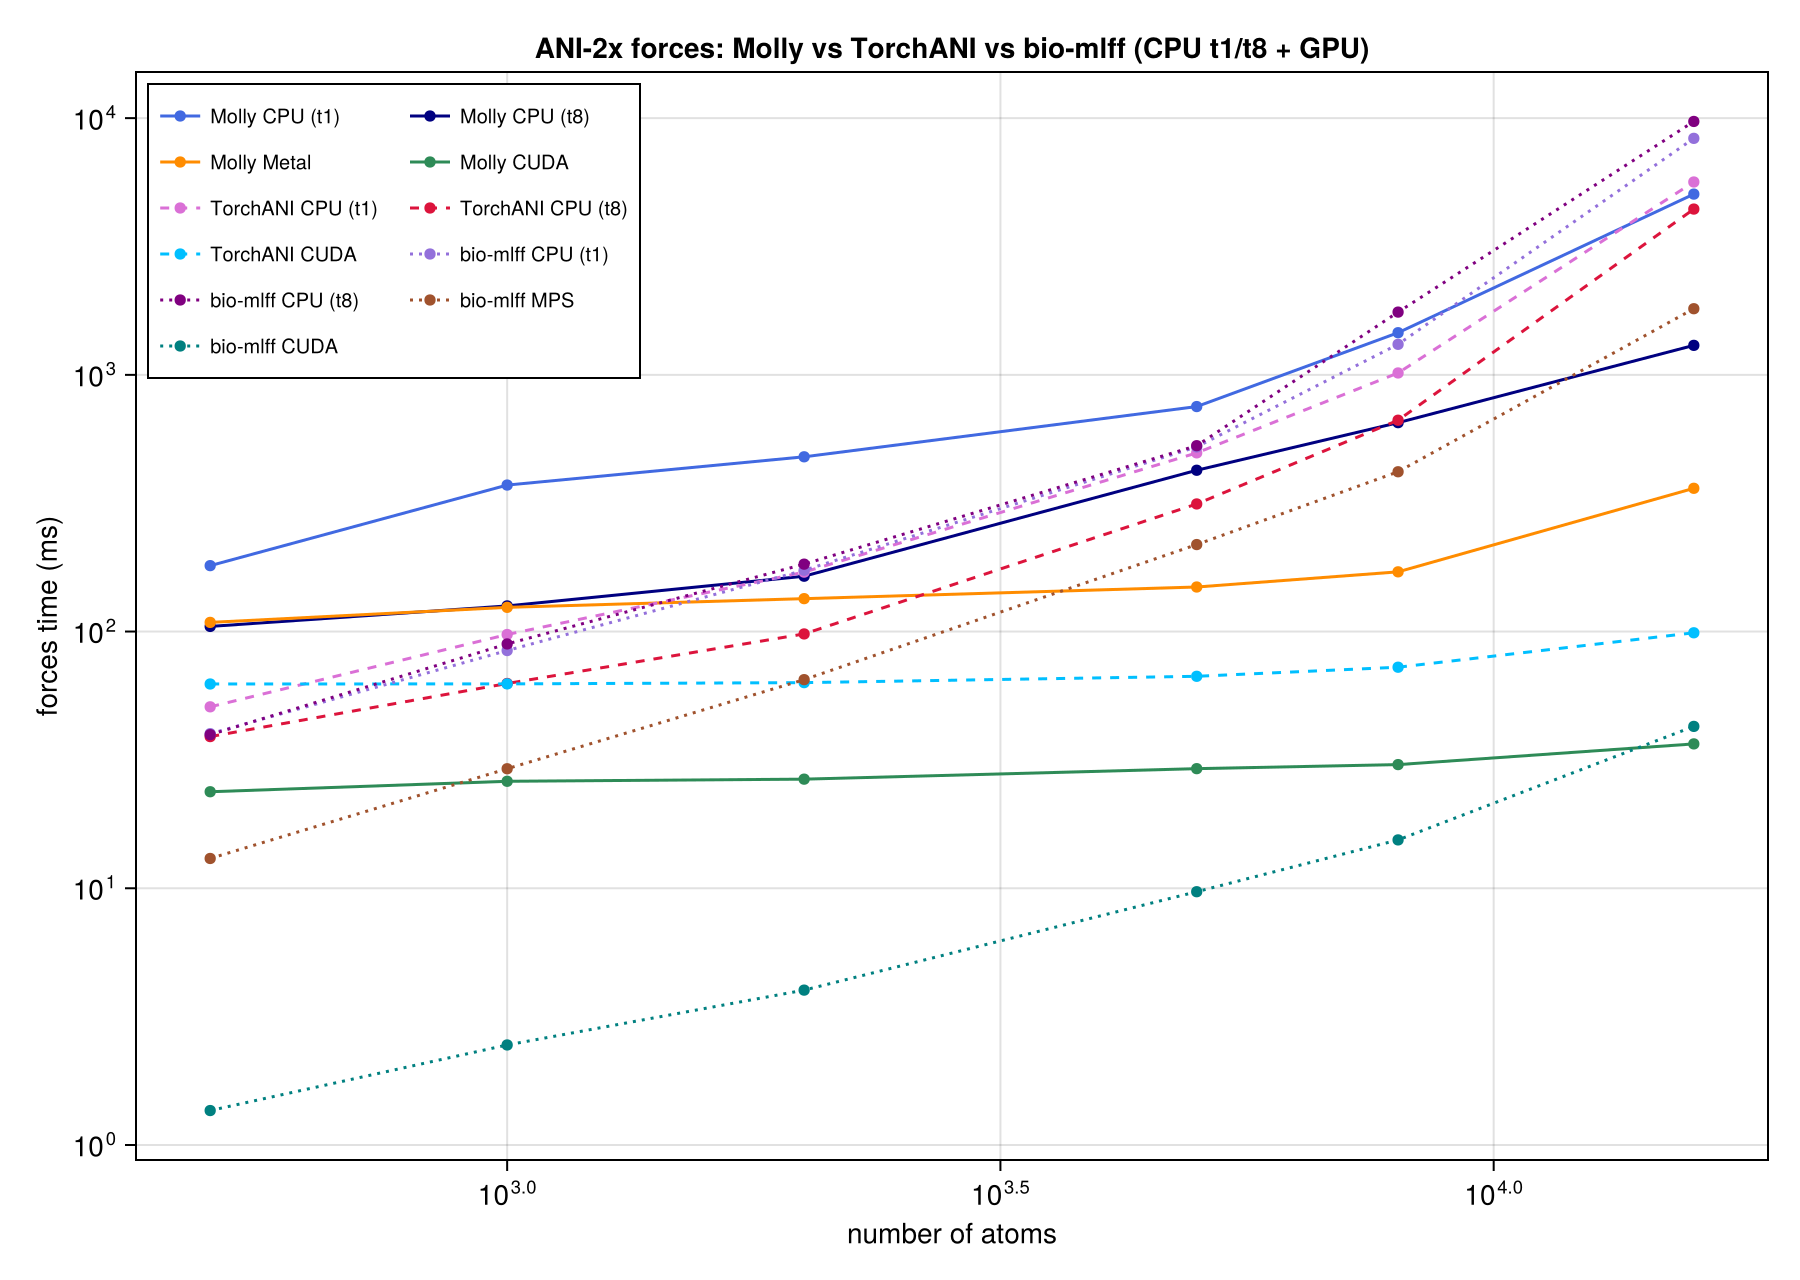
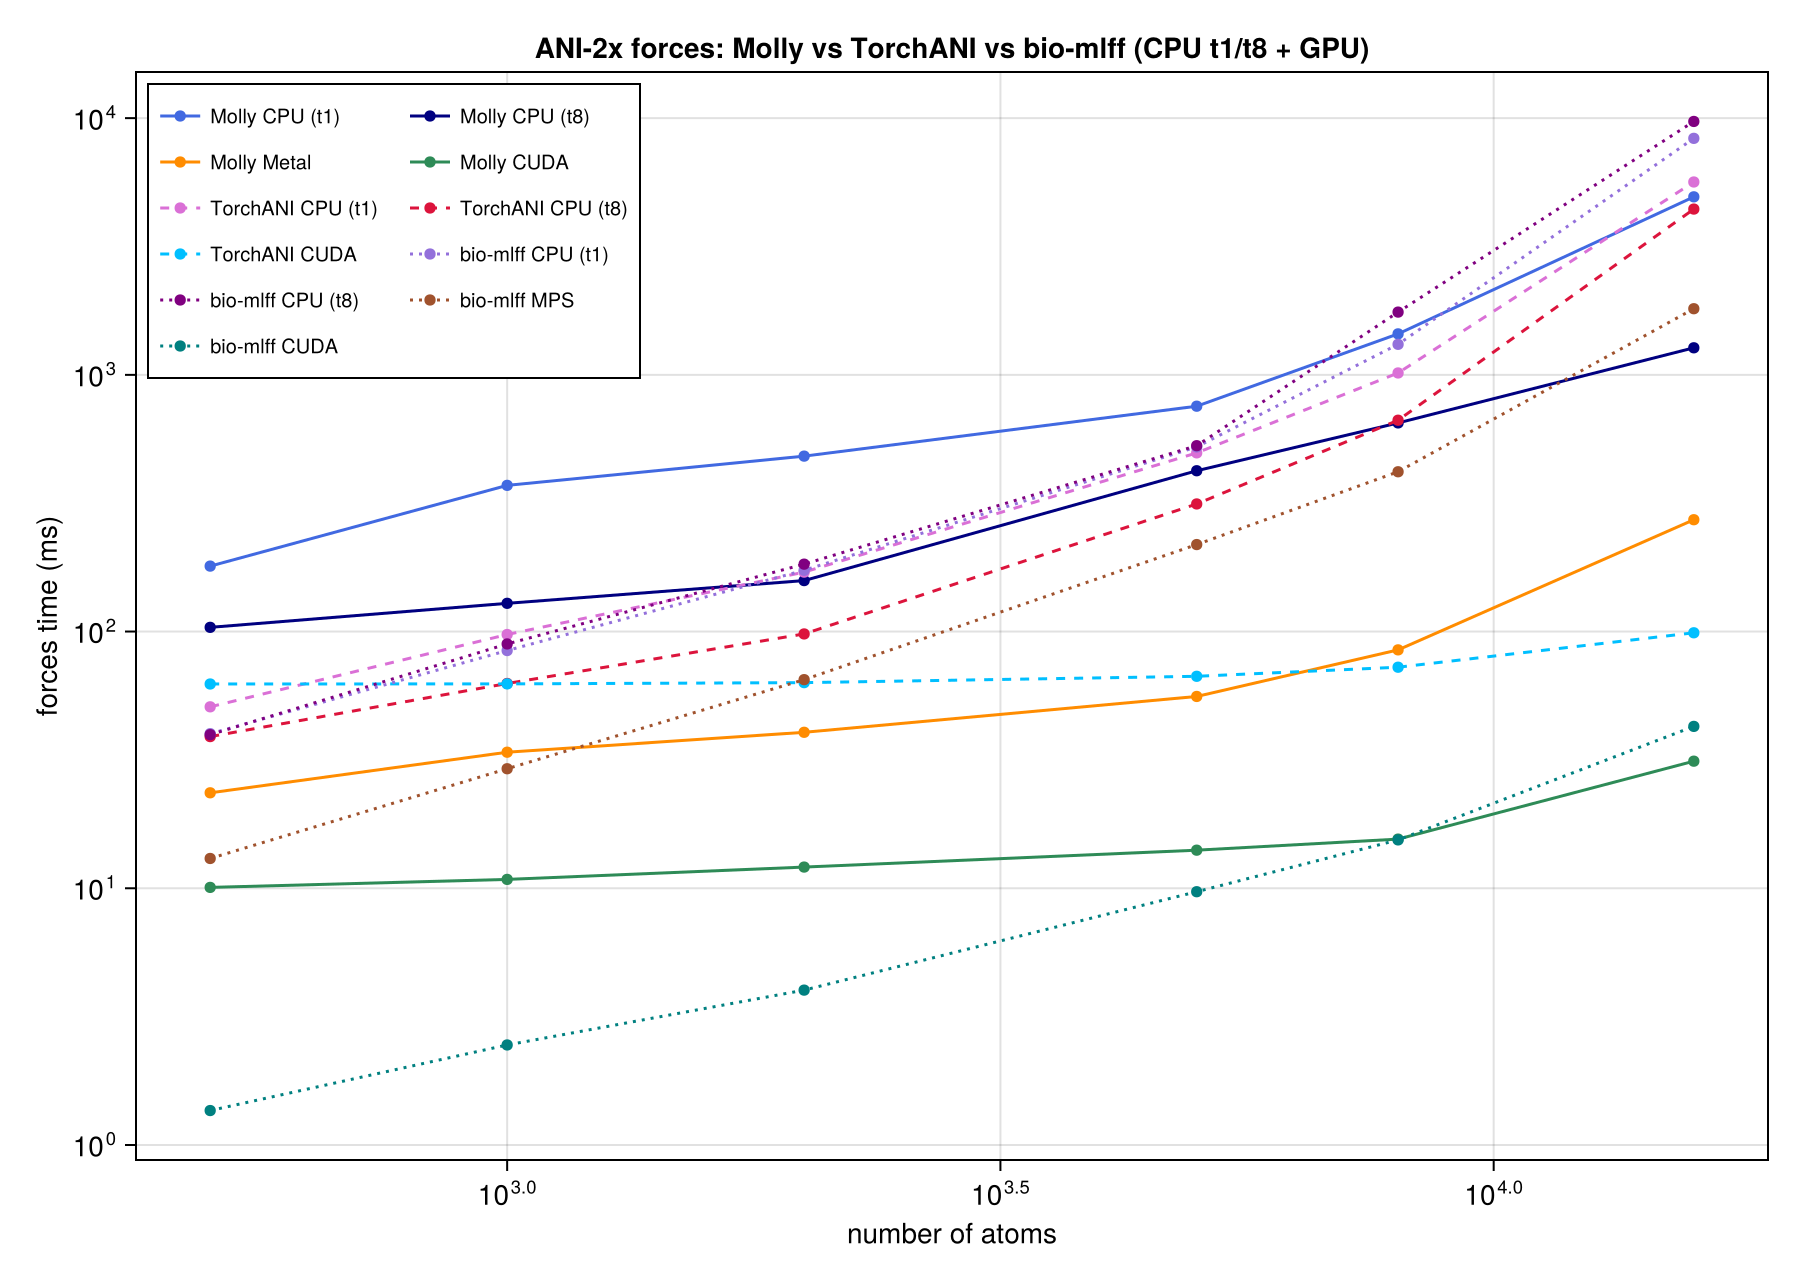
ANI: refresh forces benchmarks + plots after the write-reduced backward angular kernel (PR #260)
Re-ran forces (CUDA on RTX 5080, Metal/CPU on M3); energy unchanged. Updated ani_benchmarks.md
forces tables (CUDA section, cross-implementation, Metal) and regenerated the figures.

RTX 5080 forces at 15,954 atoms: 37->31 ms (and 26->11 at 1k, 30->16 at 8k). Molly CUDA now matches
bio-mlff on forces at ~8k atoms and wins above; the crossover moved from ~13k to ~8k. On M3, the
backward write-reduction cut Metal forces ~3.6x at 1k (124->34 ms), so Metal now beats the threaded
CPU on forces at every size (4.4-7.7x) and TorchANI CPU by 14x at the full protein.

diff --git a/benchmark/ani_benchmarks.md b/benchmark/ani_benchmarks.md
@@ -84,18 +84,17 @@ a single member: one AEV forward/backward, NN VJP ×8).
 
 | N atoms | CPU analytic (t8) | Metal | Metal speedup |
 |---------|-------------------|-------|---------------|
-| 500     | 104.7 ms | 108.6 ms | 1.0×       |
-| 1000    | 125.9 ms | 124.3 ms | 1.0×       |
-| 2000    | 164.3 ms | 134.4 ms | 1.2×       |
-| 5000    | 425.0 ms | 149.1 ms | **2.9×**   |
-| 8000    | 651.3 ms | 170.9 ms | **3.8×**   |
-| **15,954 (full 6mrr)** | 1303 ms | **361 ms** | **3.6×** |
+| 500     | 103.9 ms | 23.5 ms  | **4.4×**   |
+| 1000    | 128.8 ms | 33.9 ms  | **3.8×**   |
+| 2000    | 158.0 ms | 40.5 ms  | **3.9×**   |
+| 5000    | 423.2 ms | 55.9 ms  | **7.6×**   |
+| 8000    | 649.8 ms | 84.9 ms  | **7.7×**   |
+| **15,954 (full 6mrr)** | 1275 ms | **273 ms** | **4.7×** |
 
-CPU-analytic and Metal are comparable up to ~2000 atoms (both dominated by fixed overhead); above
-the **~2000-atom crossover** Metal's near-flat cost wins, reaching **3.6×** the CPU at the full
-6mrr protein. Metal forces for the whole 15,954-atom system take ~361 ms (~3× the on-device
-energy, 119 ms — the forward-AEV + backward-AEV + NN-VJP overhead). Both Molly paths beat
-TorchANI CPU forces at scale (see the head-to-head): at 16k, CPU-analytic is 3.4× and Metal 12×.
+With the write-reduced backward angular kernel, Metal now beats the threaded CPU on forces at
+**every** size (4.4× at 500 atoms, up to 7.7× at 8000, 4.7× at the full protein). Metal forces for
+the whole 15,954-atom system take ~273 ms. Both Molly paths beat TorchANI CPU forces at scale (see
+the head-to-head): at 16k, CPU-analytic is 3× and Metal 14×.
 
 ![Forces vs N — all implementations: Molly/TorchANI/bio-mlff, CPU t1/t8 + Metal/MPS/CUDA](images/forces_vs_N.png)
 
@@ -185,19 +184,20 @@ Forces (single member, ms):
 
 | N atoms | CPU (t8) | **Molly CUDA** | TorchANI CUDA | bio-mlff CUDA |
 |---------|----------|------------|---------------|---------------|
-| 500     | 286.3  | **23.8** | 62.5 | 1.4 |
-| 1000    | 336.5  | **26.1** | 62.5 | 2.5 |
-| 2000    | 411.8  | **26.6** | 63.3 | 4.0 |
-| 5000    | 1271.4 | **29.2** | 67.0 | 9.7 |
-| 8000    | 1932.8 | **30.3** | 72.6 | 15.4 |
-| **15,954** | 3997.0 | **36.5** | 98.9 | 42.7 |
+| 500     | 285.2  | **10.1** | 62.5 | 1.4 |
+| 1000    | 337.7  | **10.8** | 62.5 | 2.5 |
+| 2000    | 410.8  | **12.1** | 63.3 | 4.0 |
+| 5000    | 1304.7 | **14.1** | 67.0 | 9.7 |
+| 8000    | 1951.0 | **15.5** | 72.6 | 15.4 |
+| **15,954** | 3905.3 | **31.3** | 98.9 | 42.7 |
 
-At the full 6mrr protein (15,954 atoms) Molly-CUDA is **124× the host CPU on energy and 109× on
+At the full 6mrr protein (15,954 atoms) Molly-CUDA is **123× the host CPU on energy and 125× on
 forces**. Against the two reference GPU implementations on the *same* RTX 5080: Molly is **faster than
-TorchANI CUDA at every size** (12 vs 58 ms energy, 36 vs 99 ms forces at 16k), and **faster than
-bio-mlff's XLA-fused CUDA at scale** (energy 12 vs 24 ms, forces 36 vs 43 ms at 16k). bio-mlff's
-whole-graph XLA still wins at small N (its fixed overhead is tiny), with the crossover around
-5,000–8,000 atoms; Molly's flatter scaling takes over above that.
+TorchANI CUDA at every size** (12 vs 58 ms energy, 31 vs 99 ms forces at 16k), and **faster than
+bio-mlff's XLA-fused CUDA at scale** (energy 12 vs 24 ms, forces 31 vs 43 ms at 16k). On forces,
+Molly matches bio-mlff at ~8,000 atoms (15.5 vs 15.4 ms) and wins above; bio-mlff's whole-graph XLA
+still wins below that (its fixed overhead is tiny). Both the forward AEV and the backward angular
+kernel use the write-reduced (workgroup-per-atom) scheme.
 
 The [energy](#energy-cpu) and [forces](#forces--the-single-analytic-path-cpu--metal) vs-N figures
 above overlay all five series (Molly CPU/Metal/CUDA + TorchANI CPU/CUDA) on one chart each. NB Molly
@@ -236,19 +236,20 @@ Forces (ms):
 
 | N atoms | Molly t1 | Molly t8 | Molly Metal | **Molly CUDA** | TorchANI t1 | TorchANI t8 | TorchANI CUDA | bio-mlff t1 | bio-mlff t8 | bio-mlff MPS | bio-mlff CUDA |
 |---------|----------|----------|-------------|------------|-------------|-------------|---------------|-------------|-------------|--------------|---------------|
-| 1000    | 372.2 | 125.9 | 124.3 | **26.1** | 97.4   | 62.8  | 62.5 | 84.4  | 89.5  | 29.2   | 2.4  |
-| 8000    | 1460  | 651.3 | 170.9 | **30.3** | 1017   | 665.8 | 72.6 | 1315  | 1756  | 419.3  | 15.4 |
-| 15,954  | 5060  | 1303  | 361.5 | **36.5** | 5641   | 4424  | 98.9 | 8343  | 9709  | 1810   | 42.7 |
+| 1000    | 371.1 | 128.8 | 33.9  | **10.8** | 97.4   | 62.8  | 62.5 | 84.4  | 89.5  | 29.2   | 2.4  |
+| 8000    | 1444  | 649.8 | 84.9  | **15.5** | 1017   | 665.8 | 72.6 | 1315  | 1756  | 419.3  | 15.4 |
+| 15,954  | 4937  | 1275  | 272.7 | **31.3** | 5641   | 4424  | 98.9 | 8343  | 9709  | 1810   | 42.7 |
 
 **Threading** (the interesting part): Molly scales well with threads (energy ~3.5× t1→t8, forces
 ~3.8× at 16k); TorchANI scales modestly (~1.3× energy, ~1.3× forces); bio-mlff (JAX/XLA on CPU) is
 essentially thread-insensitive (t1 ≈ t8 — XLA's CPU threadpool did not respond to
 `intra_op_parallelism_threads`). **At t8, Molly is the fastest CPU implementation at scale** on both
-energy (396 vs 2753 vs 4011 ms at 16k) and forces (1303 vs 4424 vs 9709). **On GPU, Molly CUDA is now
-the fastest at the full protein** — energy 12 ms (vs TorchANI 58, bio-mlff 24) and forces 36 ms (vs
-99, 43) at 15,954 atoms — after the write-reduced AEV, on-device CSR build, and type-stable assembly.
-bio-mlff's XLA still wins below ~5–8k atoms (tiny fixed overhead), and Molly Metal gives the strongest
-Apple-GPU path (16 ms energy at 1k). See the energy/forces vs-N figures above for all eleven series.
+energy (396 vs 2753 vs 4011 ms at 16k) and forces (1275 vs 4424 vs 9709). **On GPU, Molly CUDA is now
+the fastest at the full protein** — energy 12 ms (vs TorchANI 58, bio-mlff 24) and forces 31 ms (vs
+99, 43) at 15,954 atoms — after the write-reduced AEV **and backward angular kernel**, on-device CSR
+build, and type-stable assembly. bio-mlff's XLA still wins on forces below ~8k atoms (tiny fixed
+overhead), and Molly Metal gives the strongest Apple-GPU path (16 ms energy / 34 ms forces at 1k).
+See the energy/forces vs-N figures above for all eleven series.
 
 ---
 
@@ -312,15 +313,15 @@ Forces (single member):
 
 | N atoms | Molly CPU (analytic) | Molly Metal | TorchANI CPU | Molly Metal vs TorchANI CPU |
 |---------|----------------------|-------------|--------------|-----------------------------|
-| 1000    | 125.9 ms | 124.3 ms    | 51.9 ms      | 0.42×         |
-| 2000    | 164.3 ms | 134.4 ms    | 90.6 ms      | 0.67×         |
-| 15,954  | 1303 ms  | 361 ms      | 3823 ms      | **10.6×**     |
+| 1000    | 128.8 ms | 33.9 ms     | 51.9 ms      | **1.5×**      |
+| 2000    | 158.0 ms | 40.5 ms     | 90.6 ms      | **2.2×**      |
+| 15,954  | 1275 ms  | 273 ms      | 3823 ms      | **14×**       |
 
 **Takeaway:** TorchANI's heavily-optimised CPU kernels win at small N (its C++/vectorised AEV
 beats Molly there), but Molly scales far better: on the **full 6mrr protein** Molly's on-device
-energy is **24×** faster than TorchANI CPU and forces are **10.6×** faster. Molly CPU energy is
+energy is **24×** faster than TorchANI CPU and forces are **14×** faster. Molly CPU energy is
 already competitive at 1k (32 vs 27 ms) and ~7× faster at 16k (396 vs 2893 ms); Molly's CPU
-analytic forces are also ~3× faster than TorchANI CPU at the full protein (1303 vs 3823 ms). On the
+analytic forces are also ~3× faster than TorchANI CPU at the full protein (1275 vs 3823 ms). On the
 Apple GPU specifically, TorchANI has no usable path, so Molly's native Metal implementation stands
 alone.
 
